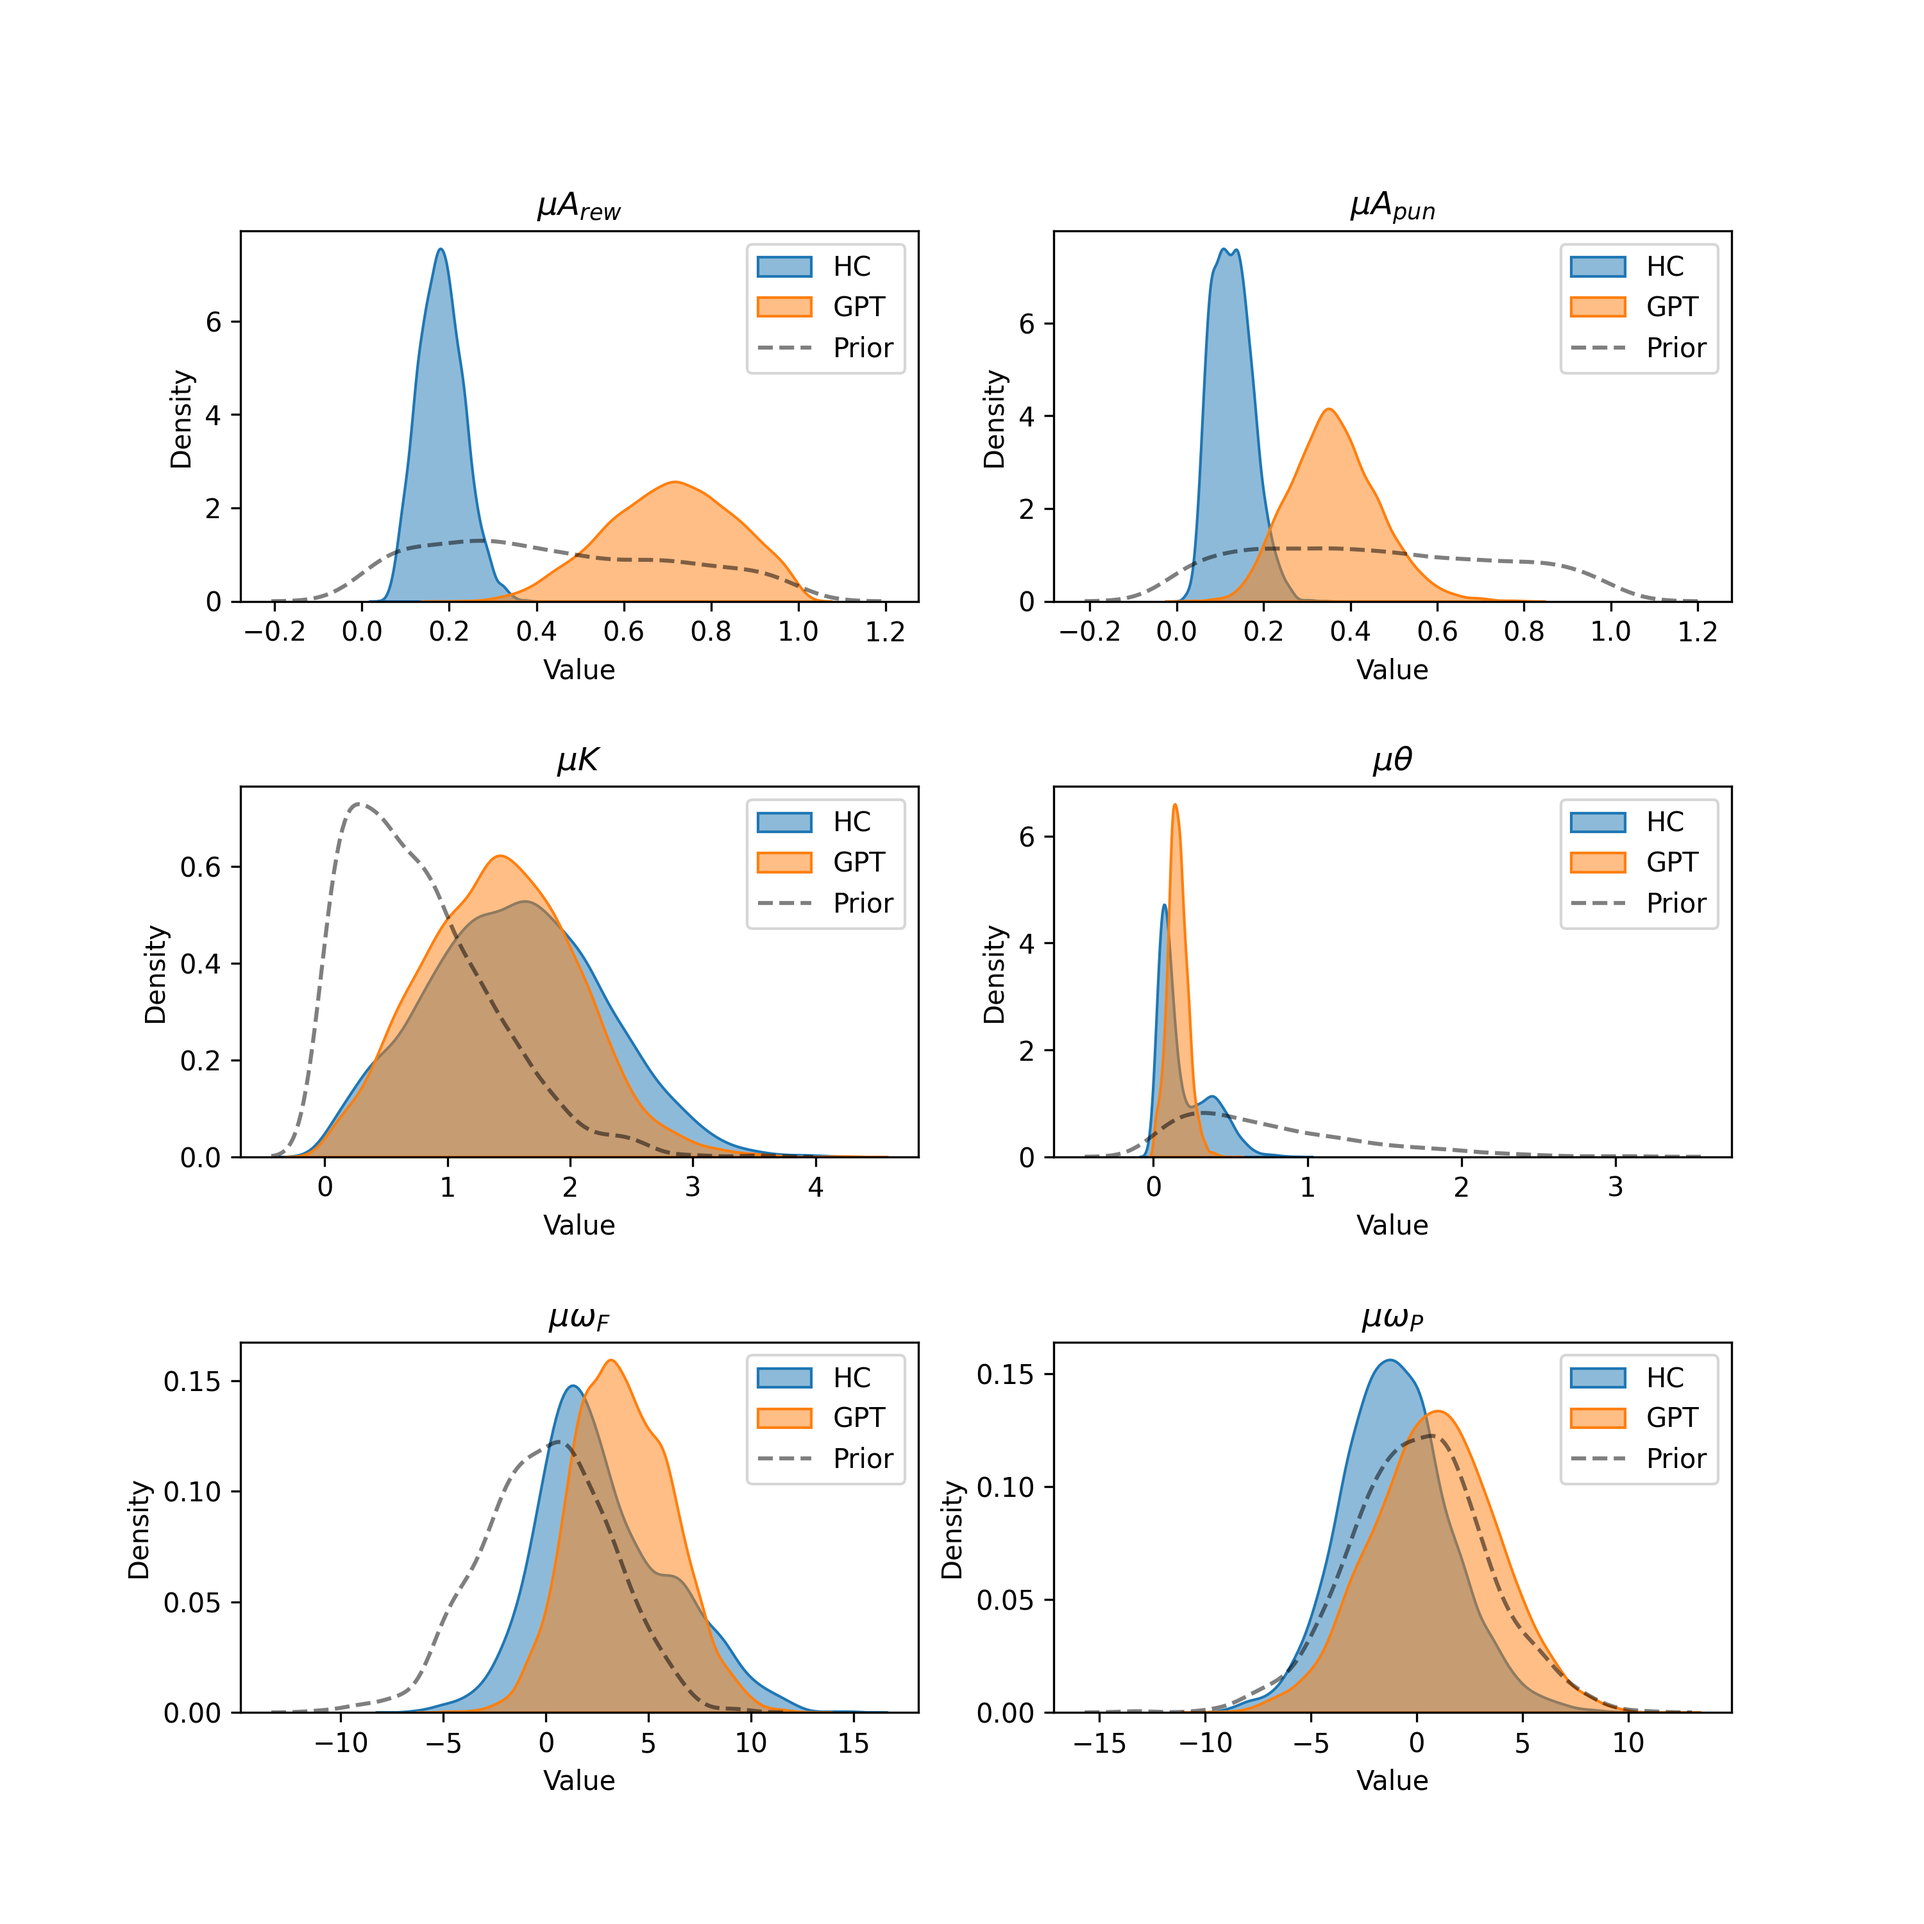
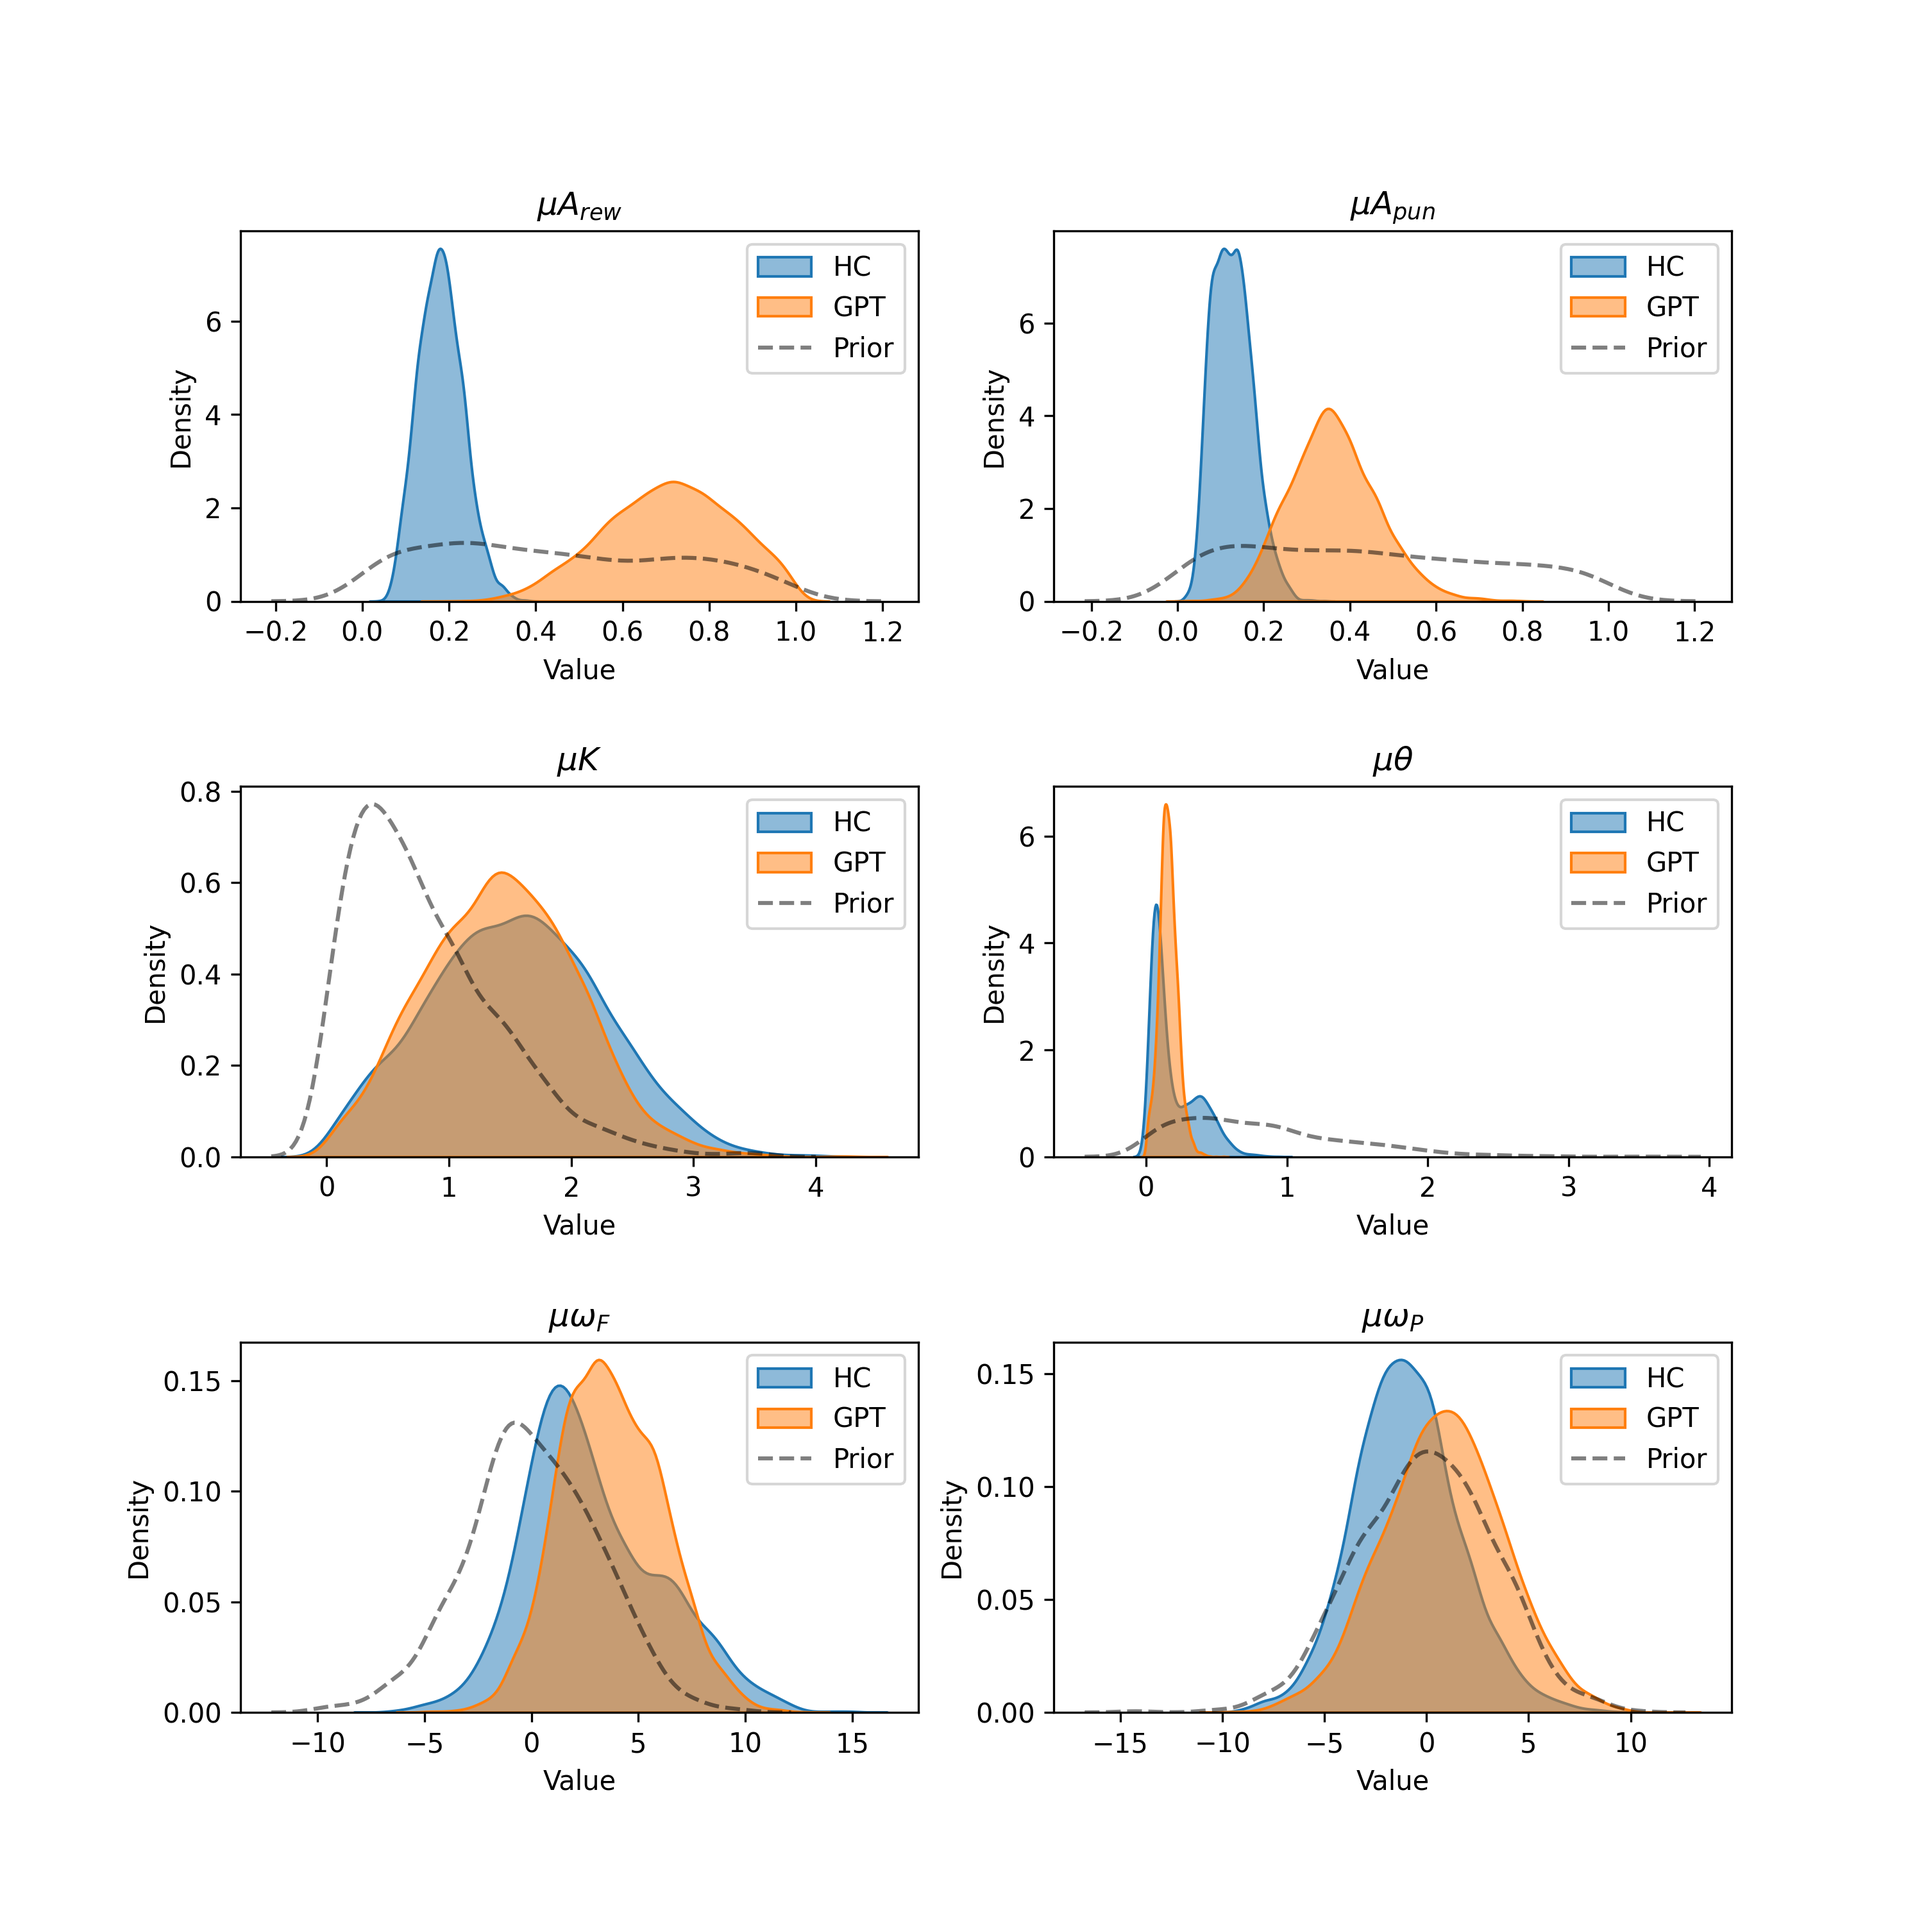
updated plots

diff --git a/src/estimation/plot_estimates.py b/src/estimation/plot_estimates.py
@@ -21,8 +21,8 @@ def plot_posteriors(hc_data, gpt_data, parameters=[("mu_a_rew", "$\mu A_{rew}$")
             "mu_a_pun": lambda size: sample_truncated_normal(0, 1, 0, 1, size),
             "mu_K": lambda size: sample_truncated_normal(0, 1, 0, np.inf, size),
             "mu_theta": lambda size: sample_truncated_normal(0, 1, 0, np.inf, size),
-            "mu_omega_f": lambda size: np.random.normal(0, 1/np.sqrt(0.1), size),
-            "mu_omega_p": lambda size: np.random.normal(0, 1/np.sqrt(0.1), size),
+            "mu_omega_f": lambda size: np.random.normal(0, 1, size),
+            "mu_omega_p": lambda size: np.random.normal(0, 1, size),
             # Add other priors if necessary
         }
 
@@ -63,6 +63,9 @@ def main():
     # plot posteriors
     plot_posteriors(hc_data, gpt_data, save_path=path.parents[2] / "src" / "estimation" / "plots" / "posterior_compare_w_priors", show_priors=True)
     plot_posteriors(hc_data, gpt_data, save_path=path.parents[2] / "src" / "estimation" / "plots" / "posterior_compare_no_priors", show_priors=False)
+
+    hc_new_priors_data = pd.read_csv(data_path / "NEW_PRIORS_param_estimated_ahn_hc.csv")
+    plot_posteriors(hc_new_priors_data, gpt_data, save_path=path.parents[2] / "src" / "estimation" / "plots" / "posterior_compare_NEW_PRIORS", show_priors=True)
 
 if __name__ == "__main__":
     main()
